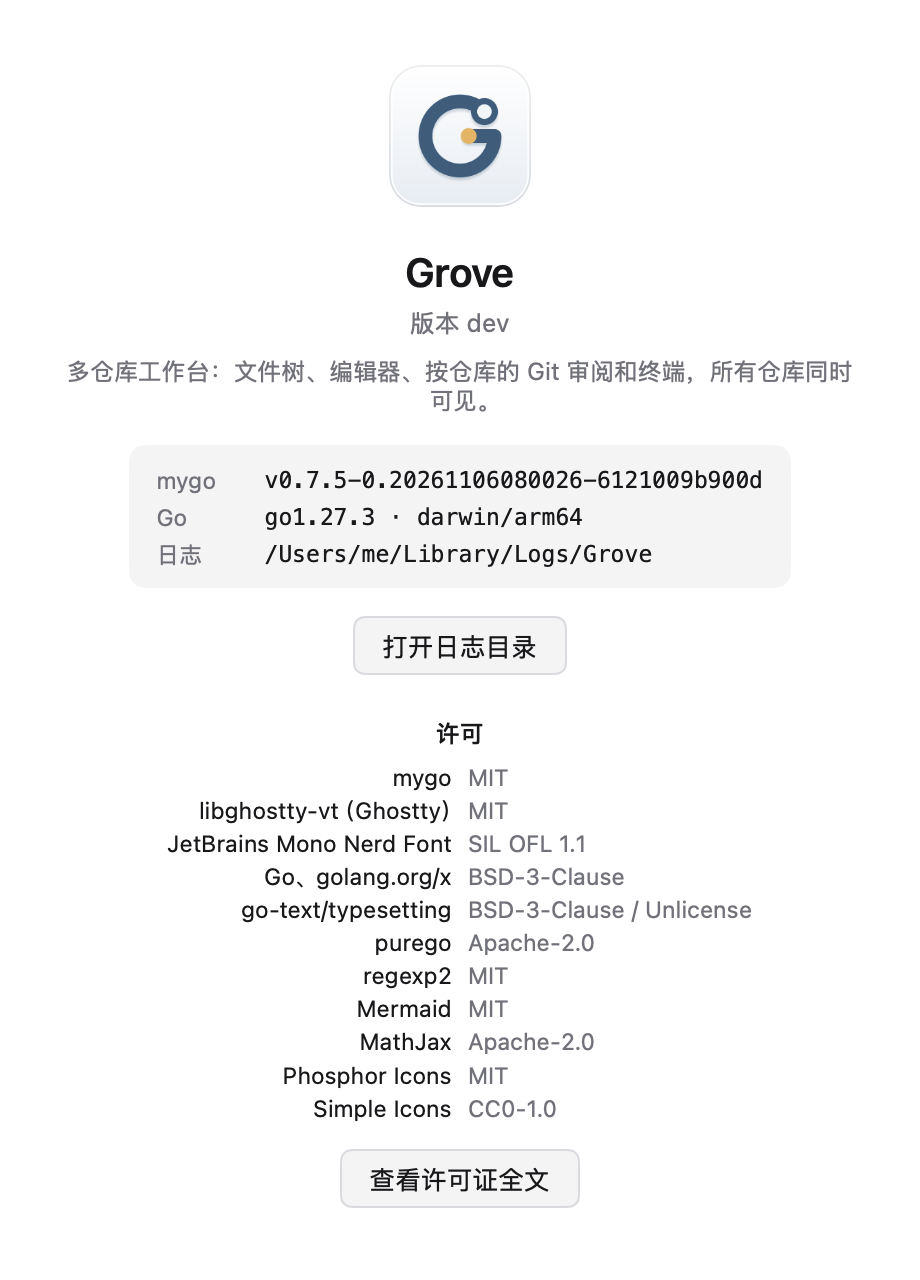
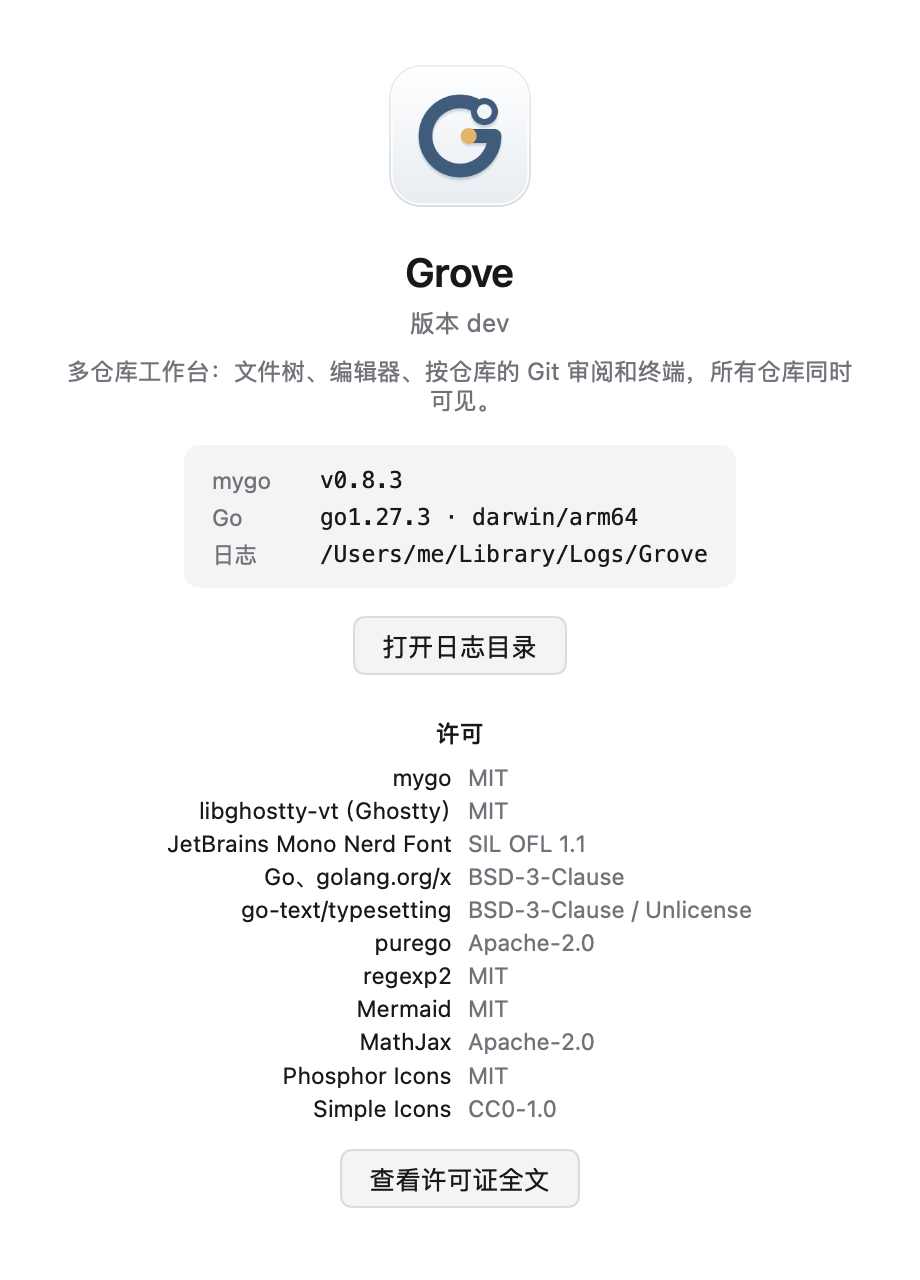
升到 mygo v0.8.3，单按修饰键不再算敲了键
v0.8 起单按 ⌘/⇧/Caps Lock 也作为 InputKeyDown 送来（Key、PhysicalKey 都是
KeyUnknown）。录快捷键、编辑器的叫醒、合并视图的按键先用 unnamedKey 滤掉；
TestKeyRecorder 加单按 ⌘ 一步。About 截图换成新版本号；坑点文档记下这条，
另记下编辑器还没有行间插块的接口。

Changed region(s): [[0.1522, 0.3438, 0.8217, 0.4375]]

diff --git a/internal/ui/keybind.go b/internal/ui/keybind.go
@@ -252,6 +252,12 @@ func (r *keyRec) start(a *app.App, cmd *app.Command) {
 	a.SetKeyRecording(true)
 }
 
+// unnamedKey 是只有位置、没有名字的键：单按的修饰键、Caps Lock、F13 这些。mygo v0.8 起它们也作为 InputKeyDown 送到 HandleInput / OnInput
+// （Key 和 PhysicalKey 都是 KeyUnknown，只有 Code），不想对"按了随便一个键"起反应的地方先用它滤掉。
+func unnamedKey(ev wui.InputEvent) bool {
+	return ev.Kind == wui.InputKeyDown && ev.Key == wui.KeyUnknown && ev.PhysicalKey == wui.KeyUnknown
+}
+
 // editKeys 是菜单栏"编辑"里那几项的键：录着的时候它们照样先被菜单接到，作为命令（InputCommand）送到有焦点的元素。
 var editKeys = map[string]struct {
 	mods wui.Modifiers
@@ -261,12 +267,15 @@ var editKeys = map[string]struct {
 	"copy": {wui.Cmd, wui.KeyC}, "paste": {wui.Cmd, wui.KeyV}, "selectAll": {wui.Cmd, wui.KeyA},
 }
 
-// input 是录键卡片里按下的键：只按修饰键不算（mygo 不当按键送）；Esc 取消；还没按过时 ⏎ 是录的键，按过以后 ⏎ 是确定；
-// 单按 ⌫ / ⌦ 是不要快捷键；没有名字的键（KeyBack 这些）不让录。
+// input 是录键卡片里按下的键：只按修饰键、Caps Lock 这些不算（unnamedKey，按组合键时先到的那个 ⌘ 不能把卡片标成"不能用"）；
+// Esc 取消；还没按过时 ⏎ 是录的键，按过以后 ⏎ 是确定；单按 ⌫ / ⌦ 是不要快捷键；没有名字的键（KeyBack 这些）不让录。
 func (r *keyRec) input(ev wui.InputEvent, save func()) bool {
 	k, mods := ev.Key, ev.Mods&(wui.Shift|wui.Ctrl|wui.Alt|wui.Super)
 	switch ev.Kind {
 	case wui.InputKeyDown:
+		if unnamedKey(ev) {
+			return true
+		}
 	case wui.InputCommand:
 		e, ok := editKeys[ev.Text]
 		if !ok {

diff --git a/internal/ui/keybind_test.go b/internal/ui/keybind_test.go
@@ -12,7 +12,7 @@ import (
 	"github.com/lemoeade/grove/internal/workspace"
 )
 
-// 设置 → 快捷键：搜到命令面板，选中点“改…”开录键卡片；按 ⌘K 提示和“运行 git 命令…”冲突，回车写进 keybindings.json，
+// 设置 → 快捷键：搜到命令面板，选中点“改…”开录键卡片；单按 ⌘ 不算；按 ⌘K 提示和“运行 git 命令…”冲突，回车写进 keybindings.json，
 // 行上换成 ⌘K、有“自定义”，git.command 那行写着被谁占了；录着的时候菜单栏不带键。再录 ⌫ 是去掉、Esc 不改、
 // 菜单栏“编辑”的键（⌘C 作为命令送来）也录得到；“重置”回到默认。设置的搜索框里也搜得到命令。
 func TestKeyRecorder(t *testing.T) {
@@ -50,6 +50,12 @@ func TestKeyRecorder(t *testing.T) {
 	mustClick(t, st, "改…")
 	if !st.HasText("按下新的快捷键") || !st.HasText("等你按…") || !app.KeyRecording {
 		t.Fatalf("录键卡片没开（录着 %v）：%q", app.KeyRecording, st.Texts())
+	}
+	// mygo v0.8 起单按的修饰键也作为按键送来：按 ⌘K 时先到的 ⌘ 不算录了键，更不是"不能用"
+	st.CodeDown(wui.Cmd, wui.CodeSuperLeft)
+	st.Frame()
+	if !st.HasText("等你按…") || st.HasText("这个键不能用") {
+		t.Fatalf("单按 ⌘：%q", st.Texts())
 	}
 	st.Key(wui.Cmd, wui.KeyK)
 	st.Frame()

diff --git a/internal/ui/caret.go b/internal/ui/caret.go
@@ -32,6 +32,9 @@ func restingEditor(c *wui.Context, key any, st *editor.State, r *docs.Rest, keys
 	rest(c, r, focused, moved || n != r.NSel)
 	r.Ver, r.Sel, r.NSel = ver, sel, n
 	st.OnInput = func(ev wui.InputEvent) bool {
+		if unnamedKey(ev) { // 单按 ⇧ 这些不算敲了键：不叫醒、不补滚动余量
+			return false
+		}
 		switch ev.Kind {
 		case wui.InputKeyDown, wui.InputText, wui.InputCommand, wui.InputPointerDown:
 			if r.Resting {

diff --git a/internal/ui/merge.go b/internal/ui/merge.go
@@ -139,6 +139,9 @@ func keyIs(ev wui.InputEvent, cmd *app.Command) bool {
 func docKeys(a *app.App, d *docs.Doc, blocks []docs.ConflictBlock) func(wui.InputEvent) bool {
 	merge := mergeKeys(a, d, blocks)
 	return func(ev wui.InputEvent) bool {
+		if unnamedKey(ev) {
+			return false
+		}
 		switch ev.Kind {
 		case wui.InputText:
 			if d.EatText {

diff --git a/docs/mygo-pitfalls.md b/docs/mygo-pitfalls.md
@@ -147,6 +147,10 @@
 
 ## 键盘和快捷键
 
+- mygo v0.8 起所有键都送到 `HandleInput` / `ObserveInput` / 编辑器的 `OnInput`：单按的修饰键、Caps Lock、F13 这些没有名字的键也作为 `InputKeyDown` 来，
+  `Key` 和 `PhysicalKey` 都是 `KeyUnknown`，只有 `Code`（`CodeShiftLeft` 等）。用 `switch` 挑键的不受影响；对"按了随便一个键"起反应的地方
+  （录键卡片、`restingEditor` 叫醒光标、`docKeys` 清 `EatText`）先用 `ui/keybind.go` 的 `unnamedKey` 滤掉，不然按 ⌘K 时先到的 ⌘ 就把录键卡片标成"不能用"。
+  Tester 里用 `CodeDown(mods, wui.CodeSuperLeft)` 模拟单按。终端的 `OnKey` 收不到这类键（插件自己滤掉了）。
 - 菜单快捷键先于编辑器接到按键（mygo 在 darwin 上没有覆盖 performKeyEquivalent）：编辑器有焦点时 ⌘K 照样打开 `>git ` 面板，
   mygo 编辑器的 ⌘K 和弦（⌘K ⌘0 等）一个都到不了编辑器。没有菜单栏的地方（测试、`OnShortcut`）才是编辑器先接，因此测试中能使用 ⌘K 和弦，不代表真实窗口中也能使用。
 - 窗口快捷键会盖掉 mygo 编辑器自带的同一个键：⇧⌘G（找上一个）给了 Git 侧栏，⇧⌘H（替换）给了搜索页的替换（当前文件里的替换走 ⌥⌘F），
@@ -213,6 +217,8 @@
 - `editor.NewBuffer` 可以在后台建：它只建 rope、不碰界面，`Buffer` 的方法从哪个 goroutine 调都安全。大文件的缓冲区在 `ReadFile` 里建好，主线程只换指针。
   换 `St.Buffer` 的指针时 mygo 会重设选区、折叠、查找和滚动，要留着的（光标、`ScrollY`）先记下、换上后放回去（`docs.setText`）。
 - `Buffer.Reset` 把整段旧文字记进撤销日志（mygo 留 256 条），重读几 MB 的文件每次都多留一份旧的。大文件重读不走 Reset，换一个后台建好的新缓冲区。
+- 普通编辑器（`editor.State`）不能在两行之间留一块高度给调用方画东西：mygo 内部有这种块（`blockAnnotation`，排版时把下面的行往下推），但只经 `DiffState.Annotations` + `RenderAnnotation` 开放给 Diff 查看器。
+  所以改动预览卡（`ui/peek.go`）只能叠在代码上、盖住块下面几行，做不成 VS Code 那样插在行间。要做得跟 mygo 要一个 `State` 上的同类接口（行号、高度、Key，行号随编辑挪），记作 mygo 的需求。
 - 重读时 `Loading` 不置上：标签已经有缓冲区时重读不清空它。测试里等重读完成要看内容（`strings.HasSuffix(d.Buf.String(), …)`）或 `Gen`，别等 `!d.Loading`。
 - `unsafe.String` 仅用于调用方独占的字节数据：`decode(data, …, owned=true, …)` 把 UTF-8 的 `data` 直接借成字符串、不拷，调用方之后不能再改 `data`
   （`ReadFile` 读的、`git.Blob` 返回的可以）。别人传进来的字节用 `Decode`（会拷一份），由 `TestSameBaseHash` 检查这一约定。
@@ -520,7 +526,7 @@
 - Tester `SetVibrancy(true)` 时材质那块是透明像素（和 `WORKBENCH_CAPTURE` 一样）。截图测试用 `writeMaterialShot` 铺一块合成的毛玻璃，只是近似，真窗口透出来的样子要手测。
 - 原生菜单（右键、按钮的 `Menu`）不在 `tt.Image()` / `WORKBENCH_CAPTURE` 里，测试用 `tt.Menu()`、`tt.ChooseMenuItem(…)`、`tt.CloseMenu()`。
   `WORKBENCH_CAPTURE` 的图里也没有红绿灯。
-- 系统右键菜单（`ContextMenu`）在窗口靠下的地方会折起来（issue #6）：mygo 的 darwin 后端用 `popUpMenuPositioningItem:nil atLocation:inView:` 弹（v0.7.4 到 main `6121009b` 都是，`internal/darwin/menu.go` 第一个参数还是 0），
+- 系统右键菜单（`ContextMenu`）在窗口靠下的地方会折起来（issue #6）：mygo 的 darwin 后端用 `popUpMenuPositioningItem:nil atLocation:inView:` 弹（v0.7.4 到 v0.8.3 都是，`internal/darwin/menu.go` 第一个参数还是 0），
   左上角钉在点的地方，下面（到屏幕底 / Dock）放不下时 AppKit 不往上翻，而是把菜单截短、底下出滚动箭头。Grove 碰不到这个调用（位置也改不了），
   所以文件树的右键菜单（`treeMenu`、`rowMenu`、仓库行、钉在顶上的行、压缩目录的每一段）画在窗口里（先是 `PopoverMenu`，issue #48 起是 Grove 自己画的
   `ui/gmenu.go`），下面放不下就往上开，窗口本身都放不下才滚。代价是样子跟着主题、不是系统菜单的毛玻璃。别处的右键菜单还是系统的。

diff --git a/docs/architecture.md b/docs/architecture.md
@@ -227,7 +227,7 @@ Diff 标签里每块改动有暂存 / 取消暂存 / 丢弃按钮（`app/hunks.g
 
 选几行再暂存是行级（`app/lines.go`）：`LinesEdits` 把选中的删除行和新增行配对，`git.LinesPatch` 生成只含这些行的补丁，总是正向套到 index 上（取消暂存时反过来算一份正向的），这样不用处理反向补丁的上下文问题。
 
-编辑器左边的改动条可以点开看那块的原文（`app/peek.go`：`Peek`、`DocHunks`、`HunkAt`、`OnGutterClick`），里面能还原那块（直接改缓冲区，⌘Z 能撤）或者暂存它（要先保存，同样走 `HunkPatch`）。块是编辑器的 `DiffState{Old: d.Base, New: d.Buf}` 算的，和改动条同一种算法；`DiffState` 按标签留着（最近 4 个），缓冲区改了 mygo 只重比改动附近的行，不每次整篇 diff（装订线接管点击每帧都要问有没有块）。编辑器里的块随缓冲区重算，`SyncPeek` 跟着挪。
+编辑器左边的改动条可以点开看那块的原文（`app/peek.go`：`Peek`、`DocHunks`、`HunkAt`、`OnGutterClick`），里面能还原那块（直接改缓冲区，⌘Z 能撤）或者暂存它（要先保存，同样走 `HunkPatch`）。块是编辑器的 `DiffState{Old: d.Base, New: d.Buf}` 算的，和改动条同一种算法；`DiffState` 按标签留着（最近 4 个），缓冲区改了 mygo 只重比改动附近的行，不每次整篇 diff（装订线接管点击每帧都要问有没有块）。编辑器里的块随缓冲区重算，`SyncPeek` 跟着挪。卡是叠在代码上的（盖住块下面几行）：想像 VS Code 那样插在两行之间、把下面的代码推下去，要 mygo 普通编辑器（`editor.State`）能在行间留一块高度给调用方画；现在只有 Diff 查看器有（`DiffState.Annotations` + `RenderAnnotation`，内部是 `blockAnnotation`），`State` 没有对应的口子，等 mygo 加了再改。
 
 Diff 里 ⌥J / ⌥K 跳上一个 / 下一个文件，上下一处改动是 `app/diffnav.go` 的 `GoToHunk`。
 

diff --git a/CHANGELOG.md b/CHANGELOG.md
@@ -12,6 +12,8 @@
   今天昨天写"15:04"，本周上周写"周四 14:20"，再早的写"10-22"，悬停看完整的日期时间。
 - 设置窗口每一页都分组放进圆角卡片（主题、界面、文字、保存……），一项一行：左边名字和说明，右边控件，点名字等于点控件。
   "材质"只在窗口底选了通透时出来，缩进在窗口底下面。数字项是自己的数字框（↑↓ 加减，−、+ 到头灰着）。
+- 升到 mygo v0.8.3：窗口不在最前面时强调色变灰（和系统应用一样）；macOS 上排字更省 CPU（拖分栏、改窗口大小大约省一半）；
+  右键、中键按下不再拖动；圆角卡片里的裁剪、长大的动画不再每帧新建遮罩。
 
 - Git 栏里几处只有图标的行写上了字：贮藏组头、工作树组头和已暂存 / 改动两组一样写“贮藏 1”“工作树 4”；展开的工作树下面那行写
   “2 个提交 · 2 个文件 +6 −0”；合并 / 变基停在一半的横幅里，继续、跳过、放弃换成带字的小按钮（继续是强调色底，有冲突时灰着）。
